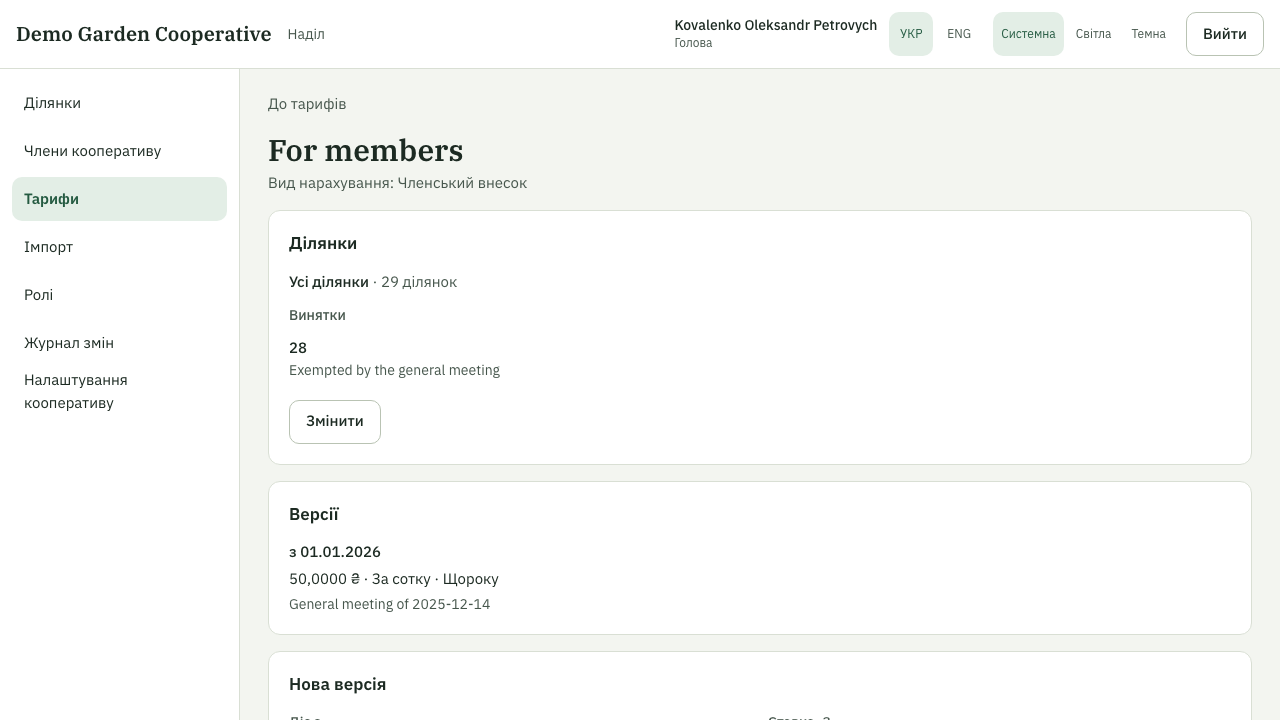
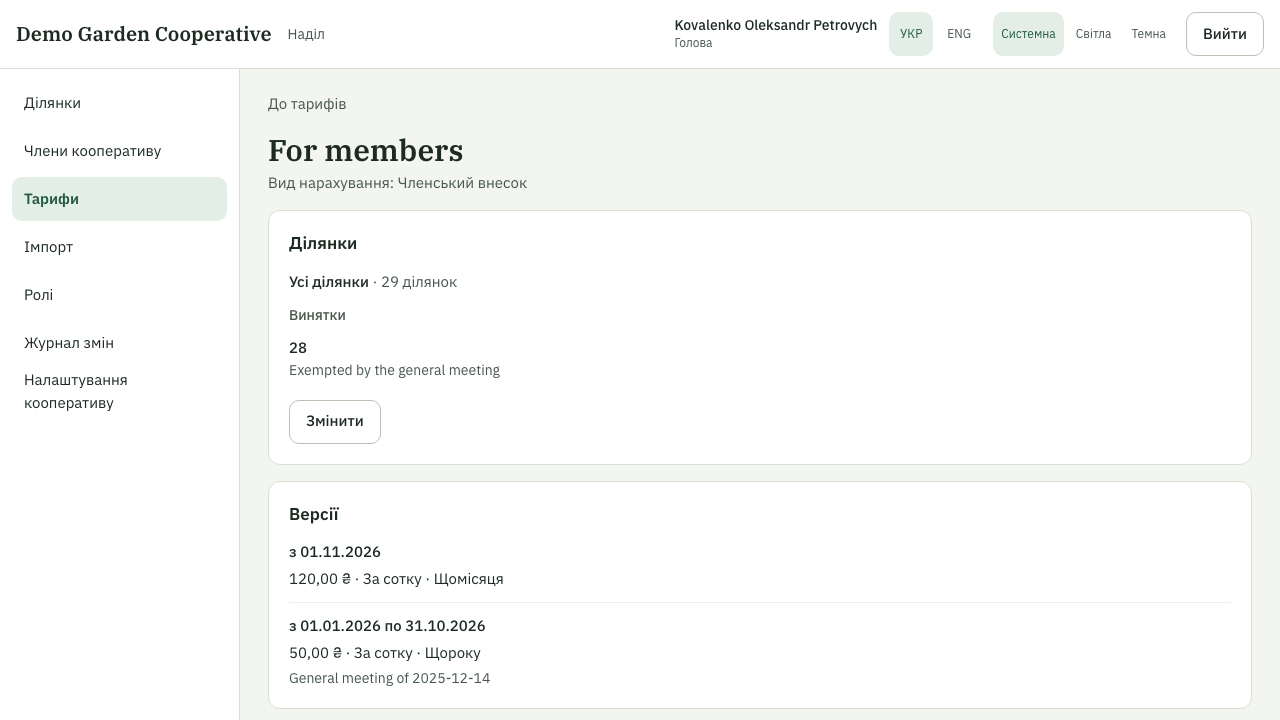
009: change request — rates shown with significant decimals, at least two

Changed region(s): [[0.2188, 0.7944, 0.4062, 1.0], [0.5938, 0.9778, 0.625, 1.0]]

diff --git a/web/src/pages/TariffsPage.test.tsx b/web/src/pages/TariffsPage.test.tsx
@@ -100,9 +100,9 @@ describe('TariffsPage', () => {
     renderWithApp(<TariffsPage />);
     const membership = within(screen.getByRole('heading', { name: 'Membership fee' }).closest('section')!);
     expect(membership.getByRole('link', { name: 'Per sotka' })).toHaveAttribute('href', '/tariffs/t1');
-    expect(membership.getByText(/4\.3200 ₴ · Per sotka · Monthly/)).toBeInTheDocument();
+    expect(membership.getByText(/4\.32 ₴ · Per sotka · Monthly/)).toBeInTheDocument();
     expect(membership.getByText(/from 11\/01\/2026 · 1 plot$/)).toBeInTheDocument();
-    expect(membership.getByText(/120\.5000 ₴ · Per plot/)).toBeInTheDocument();
+    expect(membership.getByText(/120\.50 ₴ · Per plot/)).toBeInTheDocument();
     expect(membership.getByText(/24 plots$/)).toBeInTheDocument();
     const road = within(screen.getByRole('heading', { name: 'Road repair' }).closest('section')!);
     expect(road.getByText(/applies to plots with a meter$/)).toBeInTheDocument();
@@ -127,7 +127,7 @@ describe('TariffsPage', () => {
       '21 ділянка',
       '22 ділянки',
     ]);
-    expect(screen.getAllByText(/^1,0000 ₴ · За ділянку · Щомісяця$/)).toHaveLength(7);
+    expect(screen.getAllByText(/^1,00 ₴ · За ділянку · Щомісяця$/)).toHaveLength(7);
   });
 
   it('shows the per-sotka yearly row in Ukrainian with the start date', () => {
@@ -142,7 +142,7 @@ describe('TariffsPage', () => {
       ),
     ];
     renderWithApp(<TariffsPage />);
-    expect(screen.getByText('50,0000 ₴ · За сотку · Щороку')).toBeInTheDocument();
+    expect(screen.getByText('50,00 ₴ · За сотку · Щороку')).toBeInTheDocument();
     expect(screen.getByText(/^діє з 01\.01\.2027/)).toBeInTheDocument();
   });
 });

diff --git a/packages/shared/src/rate.test.ts b/packages/shared/src/rate.test.ts
@@ -2,11 +2,21 @@ import { describe, expect, it } from 'vitest';
 import { formatRate, normalizeRateInput } from './money';
 
 describe('formatRate', () => {
-  it('pads to four decimals with the locale separator', () => {
-    expect(formatRate('4.3200')).toBe('4,3200');
-    expect(formatRate('4.32')).toBe('4,3200');
-    expect(formatRate('4', 'en-US')).toBe('4.0000');
+  it('shows significant decimals, at least two', () => {
+    expect(formatRate('50.0000')).toBe('50,00');
+    expect(formatRate('4.3200')).toBe('4,32');
+    expect(formatRate('1.4532')).toBe('1,4532');
+    expect(formatRate('0.3500')).toBe('0,35');
+    expect(formatRate('50.0000', 'en-US')).toBe('50.00');
+    expect(formatRate('4.3200', 'en')).toBe('4.32');
+    expect(formatRate('1.4532', 'en')).toBe('1.4532');
+    expect(formatRate('0.3500', 'en')).toBe('0.35');
+  });
+  it('handles integers, tiny and zero rates', () => {
+    expect(formatRate('4')).toBe('4,00');
+    expect(formatRate('4', 'en-US')).toBe('4.00');
     expect(formatRate('0.0001', 'en')).toBe('0.0001');
+    expect(formatRate('0.0000')).toBe('0,00');
   });
   it('keeps every digit of a long value (never through Number)', () => {
     expect(formatRate('33.3333')).toBe('33,3333');

diff --git a/packages/shared/src/money.ts b/packages/shared/src/money.ts
@@ -36,13 +36,18 @@ export type RateString = string;
 const RATE_RE = /^\d+(\.\d{1,4})?$/;
 const RATE_INPUT_RE = /^\d{1,10}(\.\d{1,4})?$/;
 
-/** "4.32" → "4,3200" (uk) or "4.3200" (en). Strings only, so no digit is lost; no grouping. */
+/**
+ * Displays a rate with its significant decimals but at least two: "50.0000" → "50,00", "4.3200" → "4,32",
+ * "1.4532" → "1,4532" (uk) or "50.00", "4.32", "1.4532" (en). Strings only, so no digit is lost; no grouping.
+ * Storage and API keep four decimals.
+ */
 export function formatRate(rate: RateString, locale: string = 'uk-UA'): string {
   if (!RATE_RE.test(rate)) {
     throw new Error(`Invalid rate: ${rate}`);
   }
   const [int = '0', frac = ''] = rate.split('.');
-  return `${int}${locale.startsWith('en') ? '.' : ','}${frac.padEnd(4, '0')}`;
+  const trimmed = frac.replace(/0+$/, '').padEnd(2, '0');
+  return `${int}${locale.startsWith('en') ? '.' : ','}${trimmed}`;
 }
 
 /**

diff --git a/web/src/pages/TariffPage.test.tsx b/web/src/pages/TariffPage.test.tsx
@@ -96,9 +96,9 @@ describe('TariffPage', () => {
     expect(screen.getByText('Charge type: Membership fee')).toBeInTheDocument();
     const items = within(screen.getByRole('list')).getAllByRole('listitem');
     expect(items.map((li) => li.textContent)).toEqual([
-      'from 01/01/2027' + '5.0000 ₴ · Per sotka · Monthly' + 'Meeting of 12 Dec',
-      'from 07/01/2026 to 12/31/2026' + '4.3200 ₴ · Per sotka · Monthly',
-      'from 01/01/2026 to 06/30/2026' + '100.0000 ₴ · Fixed one-time amount · One-off' + 'due 03/15/2026',
+      'from 01/01/2027' + '5.00 ₴ · Per sotka · Monthly' + 'Meeting of 12 Dec',
+      'from 07/01/2026 to 12/31/2026' + '4.32 ₴ · Per sotka · Monthly',
+      'from 01/01/2026 to 06/30/2026' + '100.00 ₴ · Fixed one-time amount · One-off' + 'due 03/15/2026',
     ]);
   });
 

diff --git a/web/src/components/tariffs/TariffAmountRows.test.tsx b/web/src/components/tariffs/TariffAmountRows.test.tsx
@@ -53,7 +53,7 @@ describe('TariffAmountRows', () => {
     renderWithApp(<TariffAmountRows data={data} />);
     expect(screen.getByText('Membership fee')).toBeInTheDocument();
     expect(screen.getByText('Membership 2026')).toBeInTheDocument();
-    expect(screen.getAllByText(/4[.,]3200 ₴ · Per sotka · Monthly/)[0]).toBeInTheDocument();
+    expect(screen.getAllByText(/4[.,]32 ₴ · Per sotka · Monthly/)[0]).toBeInTheDocument();
     expect(screen.getByText('by meter readings')).toBeInTheDocument();
     expect(screen.getByText('not charged — Paid in advance')).toBeInTheDocument();
     expect(screen.getByText('Road repair', { selector: 'div' })).toBeInTheDocument();

diff --git a/web/src/pages/AuditPage.test.tsx b/web/src/pages/AuditPage.test.tsx
@@ -199,7 +199,7 @@ describe('AuditPage tariff version entries', () => {
     expect(screen.getByText(/Frequency:/)).toBeInTheDocument();
     expect(screen.getByText(/Monthly/)).toBeInTheDocument();
     expect(screen.getByText(/Rate:/)).toBeInTheDocument();
-    expect(screen.getByText(/4\.3200 ₴ → 5\.5 ₴|4\.3200 ₴ → 5\.5000 ₴/)).toBeInTheDocument();
+    expect(screen.getByText(/4\.32 ₴ → 5\.50 ₴/)).toBeInTheDocument();
     expect(screen.getByText(/Due date:/)).toBeInTheDocument();
     expect(screen.getByText(/Note:/)).toBeInTheDocument();
     expect(screen.getByText(/Charge type:/)).toBeInTheDocument();

diff --git a/web/e2e/tariffs.spec.ts b/web/e2e/tariffs.spec.ts
@@ -74,7 +74,7 @@ test.describe('tariffs', () => {
       // the tariffs list shows the rate with four decimals
       await menuLink(page, 'Tariffs').click();
       const row = main(page).getByRole('listitem').filter({ hasText: tariffName }).last();
-      await expect(row).toContainText('50.0000 ₴');
+      await expect(row).toContainText('50.00 ₴');
       await expect(row).toContainText('Per sotka');
       await expect(row).toContainText('Yearly');
 

diff --git a/context/spec/009-charge-types-and-tariffs/functional-spec.md b/context/spec/009-charge-types-and-tariffs/functional-spec.md
@@ -69,7 +69,7 @@ nothing about anyone else's.
   - the date it applies from ("діє з"); it applies until the day before the next version's date, or without end;
   - the basis: per plot, per sotka of the plot's area, per kWh, per m³ of water, or a fixed one-time amount;
   - the frequency: monthly, quarterly, yearly or one-off;
-  - the rate, a number with up to 4 digits after the decimal point (for example 4.3200); it is not rounded when saved;
+  - the rate, a number with up to 4 digits after the decimal point (for example 4.3200); it is not rounded when saved, and it is shown with its significant decimals but at least two (4.3200 as "4,32", 50.0000 as "50,00", 1.4532 as "1,4532");
   - an optional note, for example "рішення загальних зборів від 12.04.2026".
 - A fixed one-time amount is always one-off and has a due date; "one-off" is only possible for a fixed one-time amount.
 - Two versions of the same tariff cannot start on the same date.
@@ -79,8 +79,8 @@ nothing about anyone else's.
 - A tariff is created together with its first version.
   - **Acceptance Criteria:**
     - [x] When the chairman creates the tariff "Для членів кооперативу" for "Членський внесок" with a first version from
-      01.01.2027, per sotka, yearly, rate 50, then the tariffs list shows it with "50,0000" ("50.0000" in English), "за сотку", "щороку" and
-      "діє з 01.01.2027". _Evidence: `TariffsPage.test.tsx` ("shows the per-sotka yearly row in Ukrainian with the start date": "50,0000 ₴ · За сотку · Щороку", "діє з 01.01.2027"); `TariffsAcceptanceTests` `section22_aTariffWithTwoVersionsListsThemNewestFirstWithFourDecimals`; `docs/screenshots/009-charge-types-and-tariffs-tariffs.png` ("50,0000 ₴ · За сотку · Щороку", "діє з")._
+      01.01.2027, per sotka, yearly, rate 50, then the tariffs list shows it with "50,00" ("50.00" in English), "за сотку", "щороку" and
+      "діє з 01.01.2027". _Evidence: `TariffsPage.test.tsx` ("shows the per-sotka yearly row in Ukrainian with the start date": "50,00 ₴ · За сотку · Щороку", "діє з 01.01.2027"); `TariffsAcceptanceTests` `section22_aTariffWithTwoVersionsListsThemNewestFirstWithFourDecimals`; `docs/screenshots/009-charge-types-and-tariffs-tariffs.png` ("50,0000 ₴ · За сотку · Щороку", "діє з")._
     - [x] When the chairman adds a version from 01.07.2027 with rate 60, then the tariff card lists both versions,
       newest first, and the first one is shown as valid until 30.06.2027. _Evidence: `TariffsAcceptanceTests` `section22_aTariffWithTwoVersionsListsThemNewestFirstWithFourDecimals` (valid until the day before); e2e `tariffs-acceptance.spec.ts` (§2.2 #2); `docs/screenshots/009-charge-types-and-tariffs-tariff-card.png`._
     - [x] When the chairman enters a new version dated before today, then the form shows "Нарахування за минулі
@@ -93,7 +93,7 @@ nothing about anyone else's.
       коми" / "The rate must be a non-negative number with at most 4 decimal places". _Evidence: `TariffsAcceptanceTests` `section22_aBadRateIsRefused` (5 decimals, negative, text → `RATE_INVALID`); `RateTests`; e2e `tariffs-acceptance.spec.ts` (§2.2 #5)._
     - [x] When the chairman chooses a fixed one-time amount, then the frequency is set to one-off and cannot be changed,
       and saving without a due date is refused with "Вкажіть дату сплати" / "Enter the due date". _Evidence: `TariffsAcceptanceTests` `section22_aFixedOneTimeAmountIsOneOffWithADueDate`; `VersionFields.test.tsx`; e2e `tariffs-acceptance.spec.ts` (§2.2 #6: frequency disabled, "Вкажіть дату сплати")._
-    - [x] When the chairman saves a rate of 4.32, then it is shown as 4,3200 (4.3200 in English) everywhere. _Evidence: `TariffsAcceptanceTests` `section22_aTariffWithTwoVersionsListsThemNewestFirstWithFourDecimals` (4.32 → 4.3200 on the card, the list and the plot amounts); `formatRate` tests; `docs/screenshots/009-charge-types-and-tariffs-plot-card.png` ("4,3200 ₴")._
+    - [x] When the chairman saves a rate of 4.32, then it is kept as 4.3200 and shown as 4,32 (4.32 in English) everywhere. _Evidence: `TariffsAcceptanceTests` `section22_aTariffWithTwoVersionsListsThemNewestFirstWithFourDecimals` (4.32 stored and returned as 4.3200); `formatRate` tests (`rate.test.ts`: 4.3200 → "4,32"); `TariffsPage.test.tsx`, `TariffPage.test.tsx` (rates shown with at least two decimals)._
 
 ### 2.3 Which plots a tariff applies to
 
@@ -273,3 +273,4 @@ Decided by the pipeline (no blocking question; the requirement document is detai
 
 - 2026-10-20 — created by `/feature-pipeline` from `docs/features/009-charge-types-and-tariffs.md`.
 - 2026-10-21 — verification — wording aligned with the app: rates use the interface's decimal separator ("50,0000" in Ukrainian, "50.0000" in English), and a refused change and a closed page show the app-wide texts "У вас немає дозволу на цю дію." and "У вас немає доступу до цієї сторінки".
+- 2026-10-21 — change request from the owner — a rate is shown with its significant decimals but at least two ("50,00", "4,32", "1,4532", "0,35"; a dot in English) instead of four; storage and the API keep four decimals; money formatting unchanged.

diff --git a/context/spec/009-charge-types-and-tariffs/pipeline-log.md b/context/spec/009-charge-types-and-tariffs/pipeline-log.md
@@ -1,7 +1,7 @@
 # Pipeline log — 009 Charge types and tariffs
 
-- Status: finished
-- Phase: 5 — published
+- Status: running
+- Phase: change request 1 — rate display
 - Branch: 009-charge-types-and-tariffs · Base: main (= origin/main) @ eca55b9
 - Requirement: docs/features/009-charge-types-and-tariffs.md
 - Autonomy: minimal (.claude/feature-pipeline.yml)
@@ -103,3 +103,9 @@ Same as 004–008 (see `context/spec/005-ui-preferences/pipeline-log.md` and `co
 - **Follow-ups for the owner:** CLAUDE.md language-rule wording for `backend/src/main/resources/tariffs/charge-type-default-names.properties` (and Ukrainian literals in its tests); amounts render with the Ukrainian money format ("25,00 ₴") in the English UI (existing `formatMoney`); audit labels of unrenamed seeded charge types show the stored English default; inactive charge types are not offered in the new-tariff form although the server accepts them; the contract `ChargeType` has no `archived` flag (the new-version form stays visible for an archived type's tariff and the server refuses); demo exclusion returns on a rerun of the repeatable demo script; minor review notes in review-log.md.
 - **Suggested commands:** none (`/awos:architecture` not needed — architecture.md updated in Slice 5).
 - Phase 5: pushed the spec branch; PR #31 opened (https://github.com/Philatelist/nadel-platform/pull/31). Status set to finished before the last push; checks are watched after it.
+
+## Change request 1 — rate display (2026-10-21)
+
+- Owner request: show a rate with its significant decimals but at least 2 ("50,00", "4,32", "1,4532", "0,35"; en with a dot); storage and API keep 4 decimals; money formatting unchanged. The review run was stopped (PIDs 33444 33362 33186) to free the e2e ports.
+- Spec documents updated (functional-spec §2.2 text, criteria #1 and #7 and their evidence, change log; technical-considerations 2.5).
+- Change request 1 implemented (react-frontend): formatRate trims trailing zeros to at least 2 decimals (strings only); rate.test.ts owner examples uk/en (RED against the old body); web unit tests and tariffs.spec.ts expectations updated. Not changed: the new-version form prefills the stored rate ("4.3200"). make check green (backend 1,343, coverage met; ui-tokens 56, api-client 7, shared 73, web 309); make e2e 89 passed. Screenshots retaken from demo data (rates now "50,00", "4,32").

diff --git a/context/spec/009-charge-types-and-tariffs/technical-considerations.md b/context/spec/009-charge-types-and-tariffs/technical-considerations.md
@@ -147,7 +147,7 @@ Kyiv month (`Clock`).
   `VersionHistory`, `ChargeTypeDialog`, `PlotTariffsPanel` (month picker, rows, total), `MyChargesPanel`
   (account page, one block per owned plot, current month), shared `TariffAmountRows`.
 - `components/ui/MonthField` (`<input type="month">`, value `YYYY-MM`).
-- `packages/shared`: `formatRate` (string only, pads to 4 decimals, locale separator) and a rate input check; no
+- `packages/shared`: `formatRate` (string only, significant decimals but at least 2 — "4.3200" → "4,32" — locale separator; storage and API keep 4) and a rate input check; no
   `Number()` anywhere for rates or amounts. Past-date warning: `validFrom < kyivToday()` (string comparison), plus the
   server's `pastDated` on saved versions.
 - i18n (uk + en): `nav.tariffs`, `tariffs.*`, `tariffs.basis.*`, `tariffs.frequency.*`, `chargeTypes.*`,
